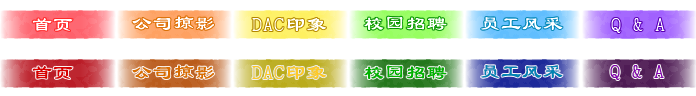
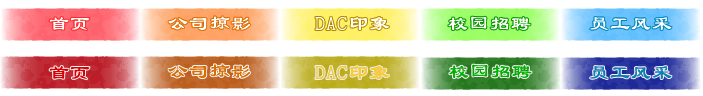
添加js和css 孔

diff --git a/css/gnavi.css b/css/gnavi.css
@@ -15,7 +15,7 @@
 #GlobalNavi,#GlobalNaviDAC,#GlobalNaviDAE{
     clear: both;
     display: block;
-    width:698px;
+    width:700px;
     position:relative;
     top:96px; left:280px;
     height:64px;
@@ -50,68 +50,57 @@
 #GlobalNaviDAE li a:hover{border-bottom:#d6d6d6 solid 4px;}
 
 #GlobalNavi li.Home{left:0;}
-#GlobalNavi li.Home a{width:116px;	background-position:0 0;}
+#GlobalNavi li.Home a{width:140px;	background-position:0 0;}
 #GlobalNavi li.Home a:hover{background-position:0 -48px;}
 #GlobalNaviDAC li.Home,
 #GlobalNaviDAE li.Home{left:0;}
 #GlobalNaviDAC li.Home a,
-#GlobalNaviDAE li.Home a{width:116px;	background-position:0 0;}
+#GlobalNaviDAE li.Home a{width:140px;	background-position:0 0;}
 #GlobalNaviDAC li.Home a:hover,
-#GlobalNaviDAE li.Home a:hover{background-position:0 -48px;}
+#GlobalNaviDAE li.Home a:hover{background-position:0px -48px;}
 
-#GlobalNavi li.Solution{left:116px;}
-#GlobalNavi li.Solution a{width:116px;background-position:-116px 0;}
-#GlobalNavi li.Solution a:hover{background-position:-116px -48px;}
+#GlobalNavi li.Solution{left:140px;}
+#GlobalNavi li.Solution a{width:140px;background-position:-140px 0;}
+#GlobalNavi li.Solution a:hover{background-position:-140px -48px;}
 #GlobalNaviDAC li.Solution,
-#GlobalNaviDAE li.Solution{left:116px;}
+#GlobalNaviDAE li.Solution{left:140px;}
 #GlobalNaviDAC li.Solution a,
-#GlobalNaviDAE li.Solution a{width:116px;background-position:-116px 0;}
+#GlobalNaviDAE li.Solution a{width:140px;background-position:-140px 0;}
 #GlobalNaviDAC li.Solution a:hover,
-#GlobalNaviDAE li.Solution a:hover{	background-position:-116px -48px;}
+#GlobalNaviDAE li.Solution a:hover{	background-position:-140px -48px;}
 
 
-#GlobalNavi li.Case{left:232px;}
-#GlobalNavi li.Case a{width:116px;	background-position:-232px 0;}
-#GlobalNavi li.Case a:hover{background-position:-232px -48px;}
+#GlobalNavi li.Case{left:280px;}
+#GlobalNavi li.Case a{width:140px;	background-position:-280px 0;}
+#GlobalNavi li.Case a:hover{background-position:-280px -48px;}
 #GlobalNaviDAC li.Case,
-#GlobalNaviDAE li.Case{left:232px;}
+#GlobalNaviDAE li.Case{left:280px;}
 #GlobalNaviDAC li.Case a,
-#GlobalNaviDAE li.Case a{width:116px;background-position:-232px 0;}
+#GlobalNaviDAE li.Case a{width:140px;background-position:-280px 0;}
 #GlobalNaviDAC li.Case a:hover,
-#GlobalNaviDAE li.Case a:hover{	background-position:-232px -48px;}
+#GlobalNaviDAE li.Case a:hover{	background-position:-280px -48px;}
 
 
-#GlobalNavi li.Seminar{	left:348px;}
-#GlobalNavi li.Seminar a{	width:116px;	background-position:-348px 0;}
-#GlobalNavi li.Seminar a:hover{	background-position:-348px -48px;}
+#GlobalNavi li.Seminar{	left:420px;}
+#GlobalNavi li.Seminar a{	width:140px;	background-position:-420px 0;}
+#GlobalNavi li.Seminar a:hover{	background-position:-420px -48px;}
 #GlobalNaviDAC li.Seminar,
-#GlobalNaviDAE li.Seminar{left:348px;}
+#GlobalNaviDAE li.Seminar{left:420px;}
 #GlobalNaviDAC li.Seminar a,
-#GlobalNaviDAE li.Seminar a{width:116px;background-position:-348px 0;}
+#GlobalNaviDAE li.Seminar a{width:140px;background-position:-420px 0;}
 #GlobalNaviDAC li.Seminar a:hover,
-#GlobalNaviDAE li.Seminar a:hover{background-position:-348px -48px;}
+#GlobalNaviDAE li.Seminar a:hover{background-position:-420px -48px;}
 
 
-#GlobalNavi li.News{left:464px;}
-#GlobalNavi li.News a{	width:116px;	background-position:-464px 0;}
-#GlobalNavi li.News a:hover{background-position:-464px -48px;}
+#GlobalNavi li.News{left:560px;}
+#GlobalNavi li.News a{	width:140px;	background-position:-560px 0;}
+#GlobalNavi li.News a:hover{background-position:-560px -48px;}
 #GlobalNaviDAC li.News,
-#GlobalNaviDAE li.News{	left:464px;}
+#GlobalNaviDAE li.News{	left:560px;}
 #GlobalNaviDAC li.News a,
-#GlobalNaviDAE li.News a{	width:116px;background-position:-464px 0;}
+#GlobalNaviDAE li.News a{	width:140px;background-position:-560px 0;}
 #GlobalNaviDAC li.News a:hover,
-#GlobalNaviDAE li.News a:hover{	background-position:-464px -48px;}
-
-
-#GlobalNavi li.Company{	left:580px;	}
-#GlobalNavi li.Company a{width:116px;	background-position:-580px 0;}
-#GlobalNavi li.Company a:hover{	background-position:-580px -48px;}
-#GlobalNaviDAC li.Company,
-#GlobalNaviDAE li.Company{left:593px;	}
-#GlobalNaviDAC li.Company a,
-#GlobalNaviDAE li.Company a{width:116px;background-position:-580px 0;}
-#GlobalNaviDAC li.Company a:hover,
-#GlobalNaviDAE li.Company a:hover{	background-position:-580px -48px;}
+#GlobalNaviDAE li.News a:hover{	background-position:-560px -48px;}
 
 #GlobalNavi li.DreamArts,#GlobalNaviDAC li.DreamArts,#GlobalNaviDAE li.DreamArts{
     top:-96px; right:0;
@@ -260,7 +249,7 @@
     float: left;
 }
 #Path ul li.Home {
-    padding: 0 10px 0 0;
+    padding: 0 0 0 0;
     background: none;
 }
 /* 銈裤偆銉堛儷銇岀敾鍍忋仹銉戙兂銇忋仛銇玥1銈掔疆銇忓牬鍚� */
